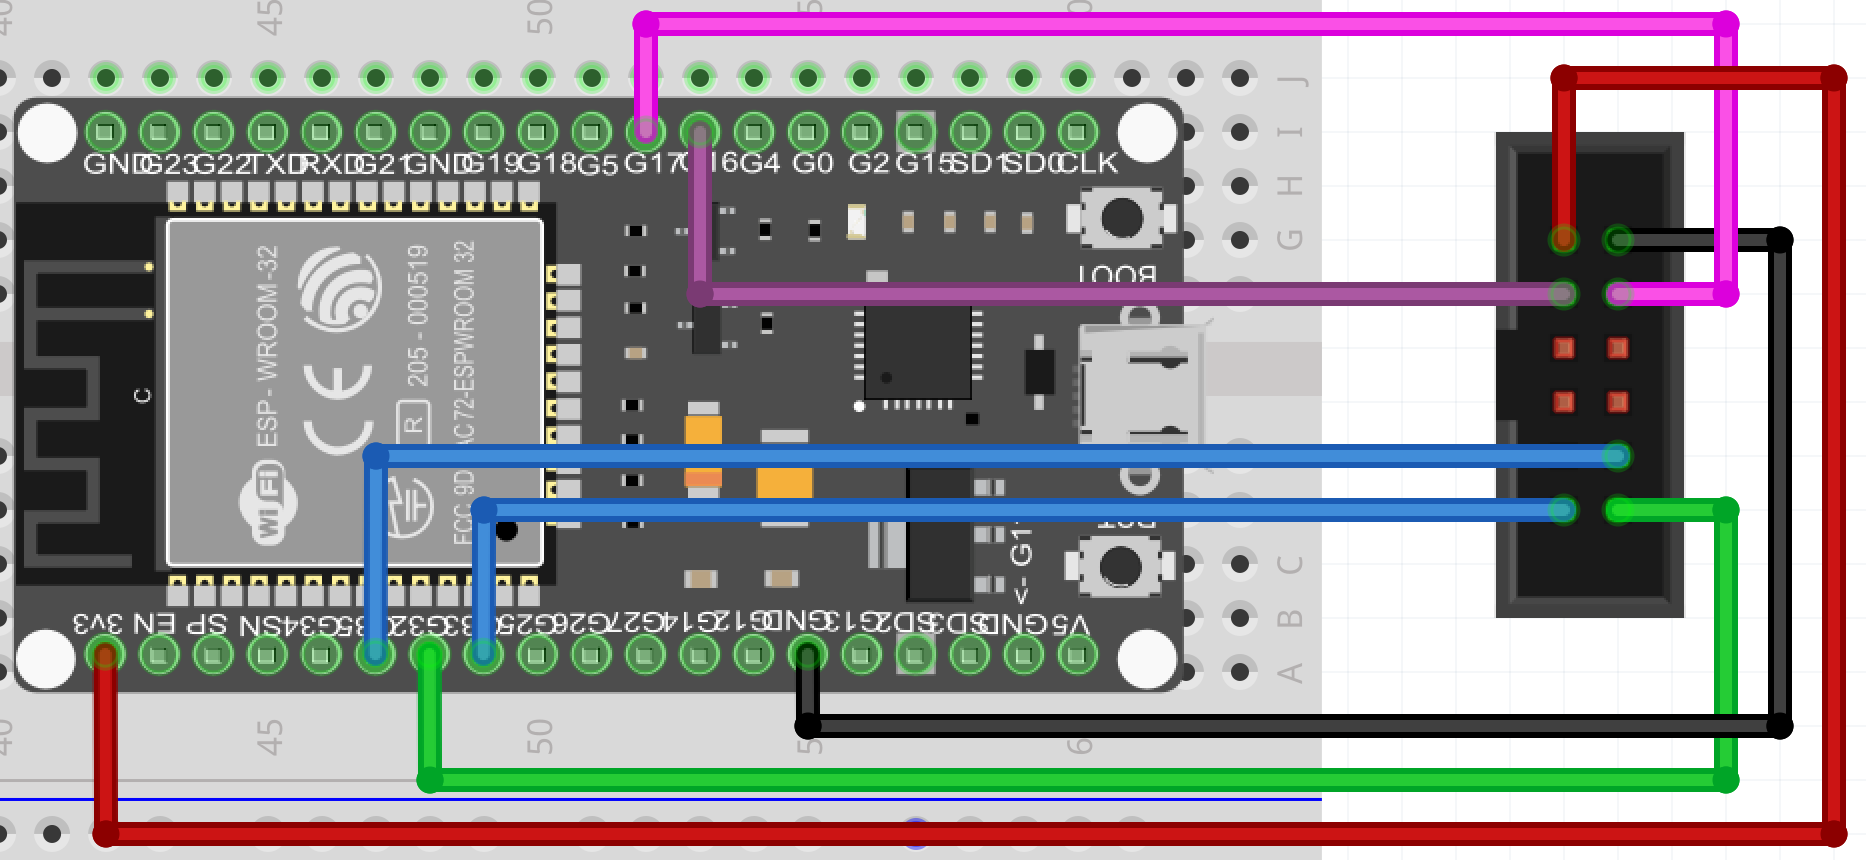
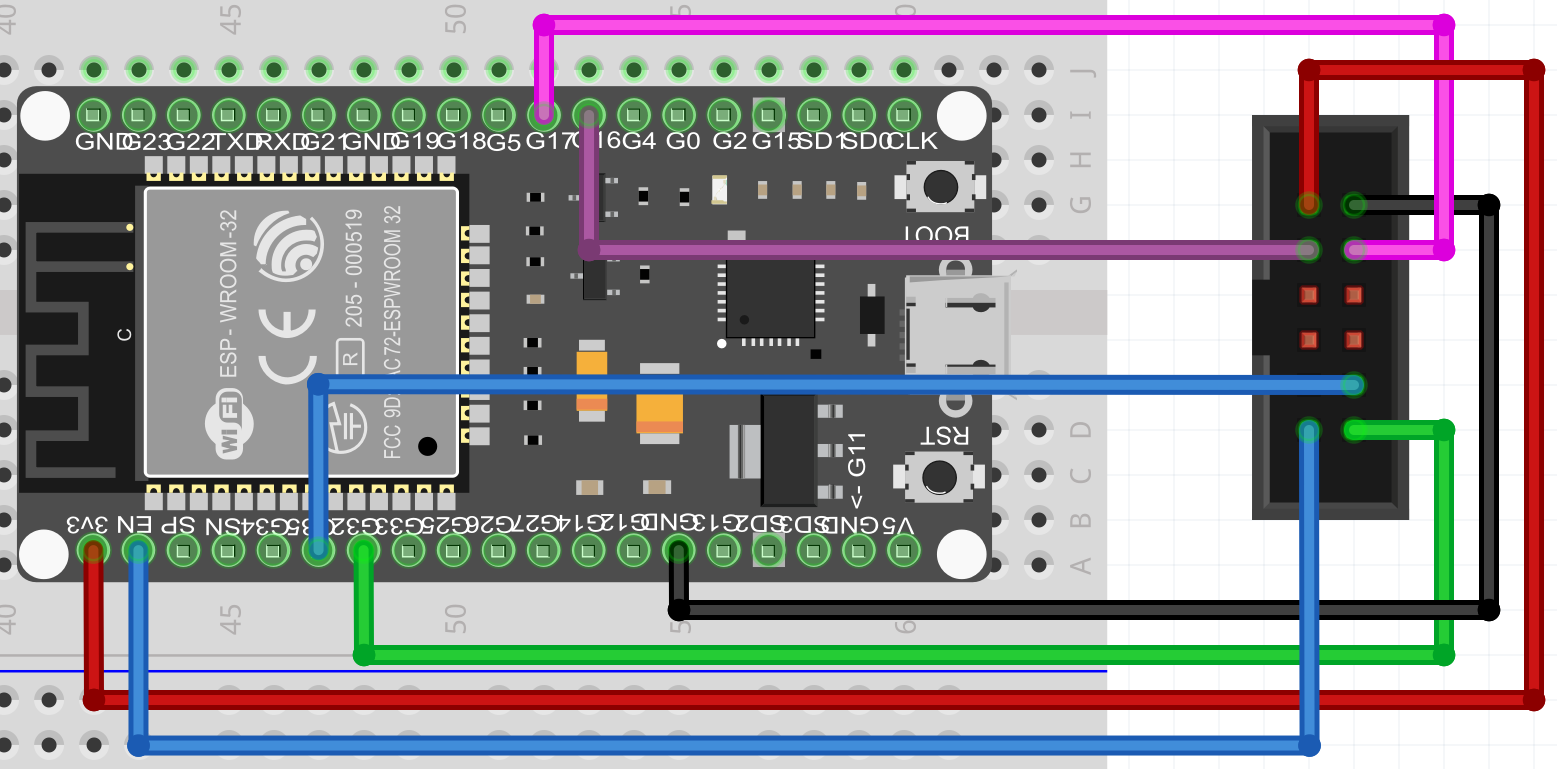
send heart-beat rewire so GEVCU can reset via EN pin

diff --git a/GevcuAdapter.h b/GevcuAdapter.h
@@ -34,8 +34,7 @@
 #include <ArduinoJson.h>
 
 #define PIN_GEVCU_LED 32 // connected to GEVCU LED
-#define PIN_GEVCU_DATA_1 33 // connected to GEVCU D42
-#define PIN_GEVCU_DATA_2 35 // connected to GEVCU D18
+#define PIN_GEVCU_RESERVED 35 // connected to GEVCU D18
 
 struct DataPoint
 {
@@ -56,6 +55,7 @@ public:
     void event(String message);
     String getConfigParameter(String key);
     void setConfigParameter(String key, String value);
+    void sendHeartBeat(uint16_t count);
 private:
     bool processBinaryData(char code, uint16_t len, char *data);
     void processInput(String input);
@@ -132,7 +132,7 @@ private:
             { 72, 1, true, 0, "enableHeater" }, // bool
             { 73, 1, true, 0, "enableCreep" }, // bool
             { 74, 2, false, 0, "cruiseControlSpeed" }, // int16_t
-            { 75, 1, true, 0, "cruiseControlEnable" }, // bool
+            { 75, 1, true, 0, "enableCruiseControl" }, // bool
 
             { 80, 2, true, 100, "soc" }, // uint16_t
             { 81, 2, true, 0, "dischargeLimit" }, // uint16_t

diff --git a/HeartBeat.cpp b/HeartBeat.cpp
@@ -35,6 +35,7 @@ HeartBeat::HeartBeat()
     led = false;
     connected = false;
     timestamp = millis();
+    count = 0;
 }
 
 HeartBeat::~HeartBeat()
@@ -54,5 +55,6 @@ void HeartBeat::loop()
         led = !led;
         digitalWrite(config->PIN_WIFI_LED, led | connected);
         timestamp = millis();
+        gevcuAdapter.sendHeartBeat(count++);
     }
 }

diff --git a/GevcuAdapter.cpp b/GevcuAdapter.cpp
@@ -204,6 +204,10 @@ void GevcuAdapter::event(String message)
     }
 }
 
+void GevcuAdapter::sendHeartBeat(uint16_t count) {
+    Serial2.println("hb:" + count);
+}
+
 DataPoint *GevcuAdapter::findDataPoint(char code)
 {
     for (int i = 0; i < sizeof(dataPoints); i++) {

diff --git a/HeartBeat.h b/HeartBeat.h
@@ -30,6 +30,7 @@
 
 #include <Arduino.h>
 #include "Configuration.h"
+#include "GevcuAdapter.h"
 
 class HeartBeat
 {
@@ -42,6 +43,7 @@ public:
 private:
     Configuration *config;
     uint32_t timestamp;
+    uint16_t count;
     bool led;
     bool connected;
 };
